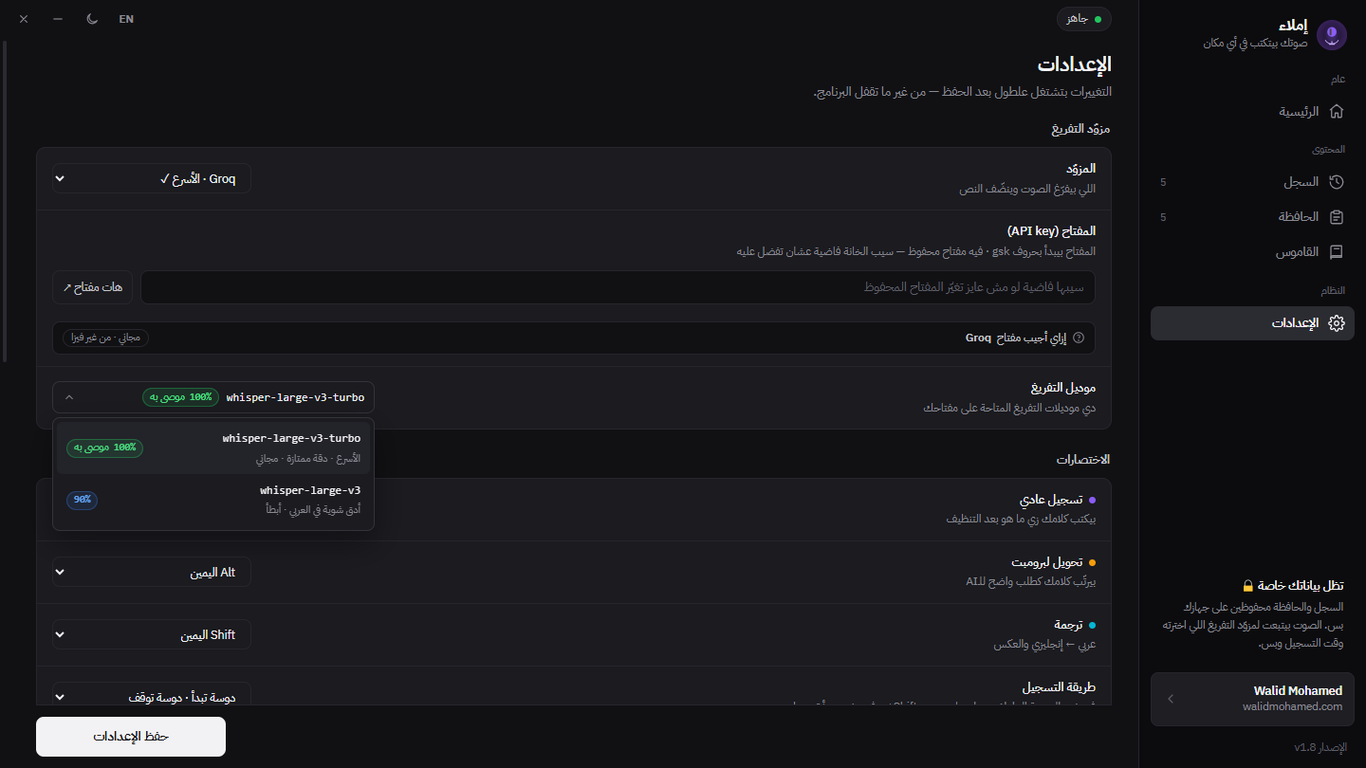
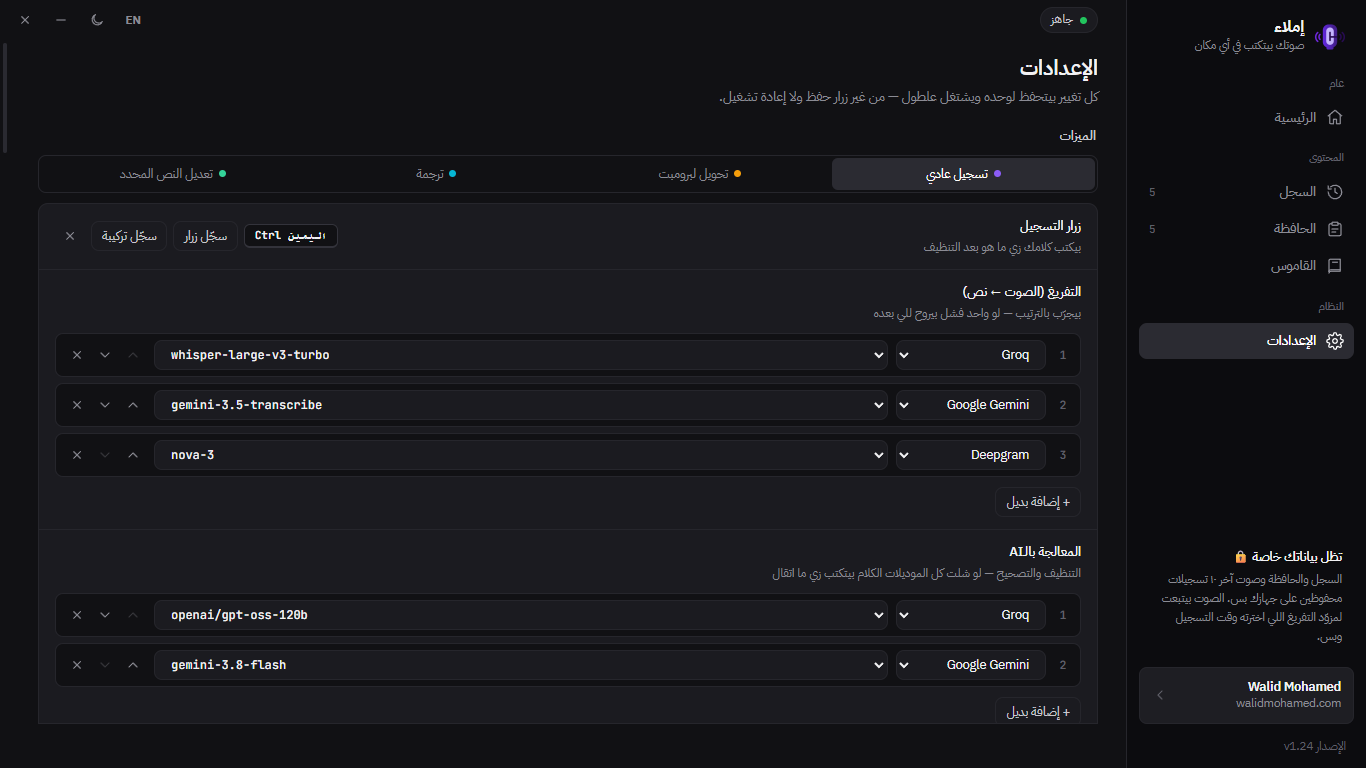
docs(store): retake 02-models-ar screenshot on the feature tabs
The old image showed the single model picker that PR #15 replaced with
per-feature tabs. The new one is the v1.24 Arabic settings page on the
"تسجيل عادي" tab: its hotkey, the ordered STT fallbacks (Groq, Gemini,
Deepgram) and the AI processing chain (Groq, Gemini).

Captured at 1366x768 (DPR 1, dark theme) from the real UI, fed by
Api.bootstrap() of a throwaway config with fake keys. The keys section
is out of frame. The SUBMISSION.md caption no longer flags the image
as stale.

diff --git a/tools/store/SUBMISSION.md b/tools/store/SUBMISSION.md
@@ -114,7 +114,7 @@ Emlaa is completely free. It needs an API key from your chosen provider (Groq an
 ### الصور
 ارفع الصور من `tools/store/screenshots/` (1366×768):
 1. `01-home-ar.png` — الرئيسية
-2. `02-models-ar.png` — ⚠ صورة قديمة لاختيار الموديل اللي اتشال: صوّر بدالها صفحة الإعدادات (تابات الميزات وقوايم البدائل) بنفس الاسم قبل النشر
+2. `02-models-ar.png` — الإعدادات: تابات الميزات وقوايم البدائل (التفريغ والمعالجة بالـAI)
 3. `03-history-ar.png` — السجل
 4. `04-home-en.png` — الواجهة بالإنجليزي
 5. `05-clipboard-en.png` — مدير الحافظة
